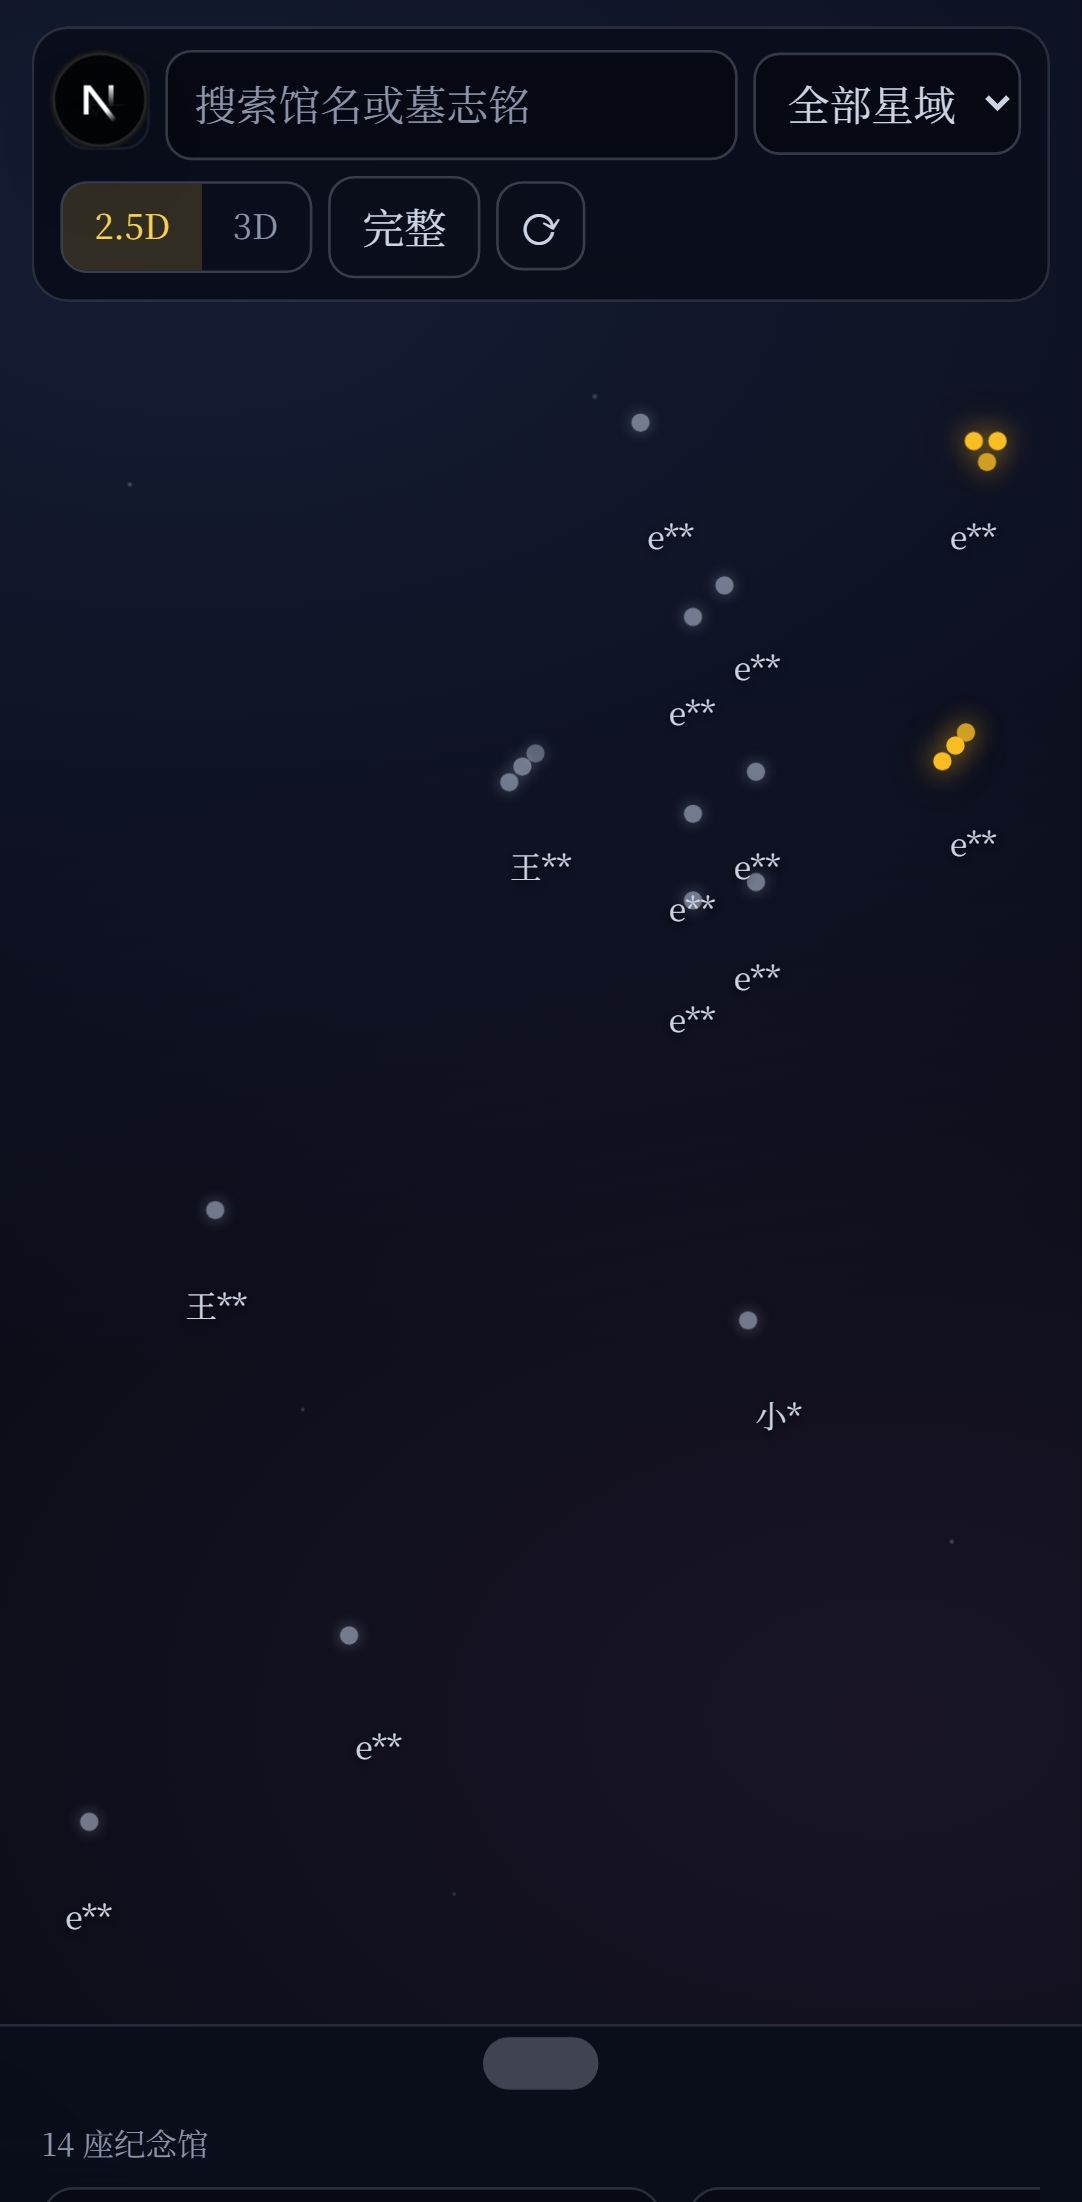
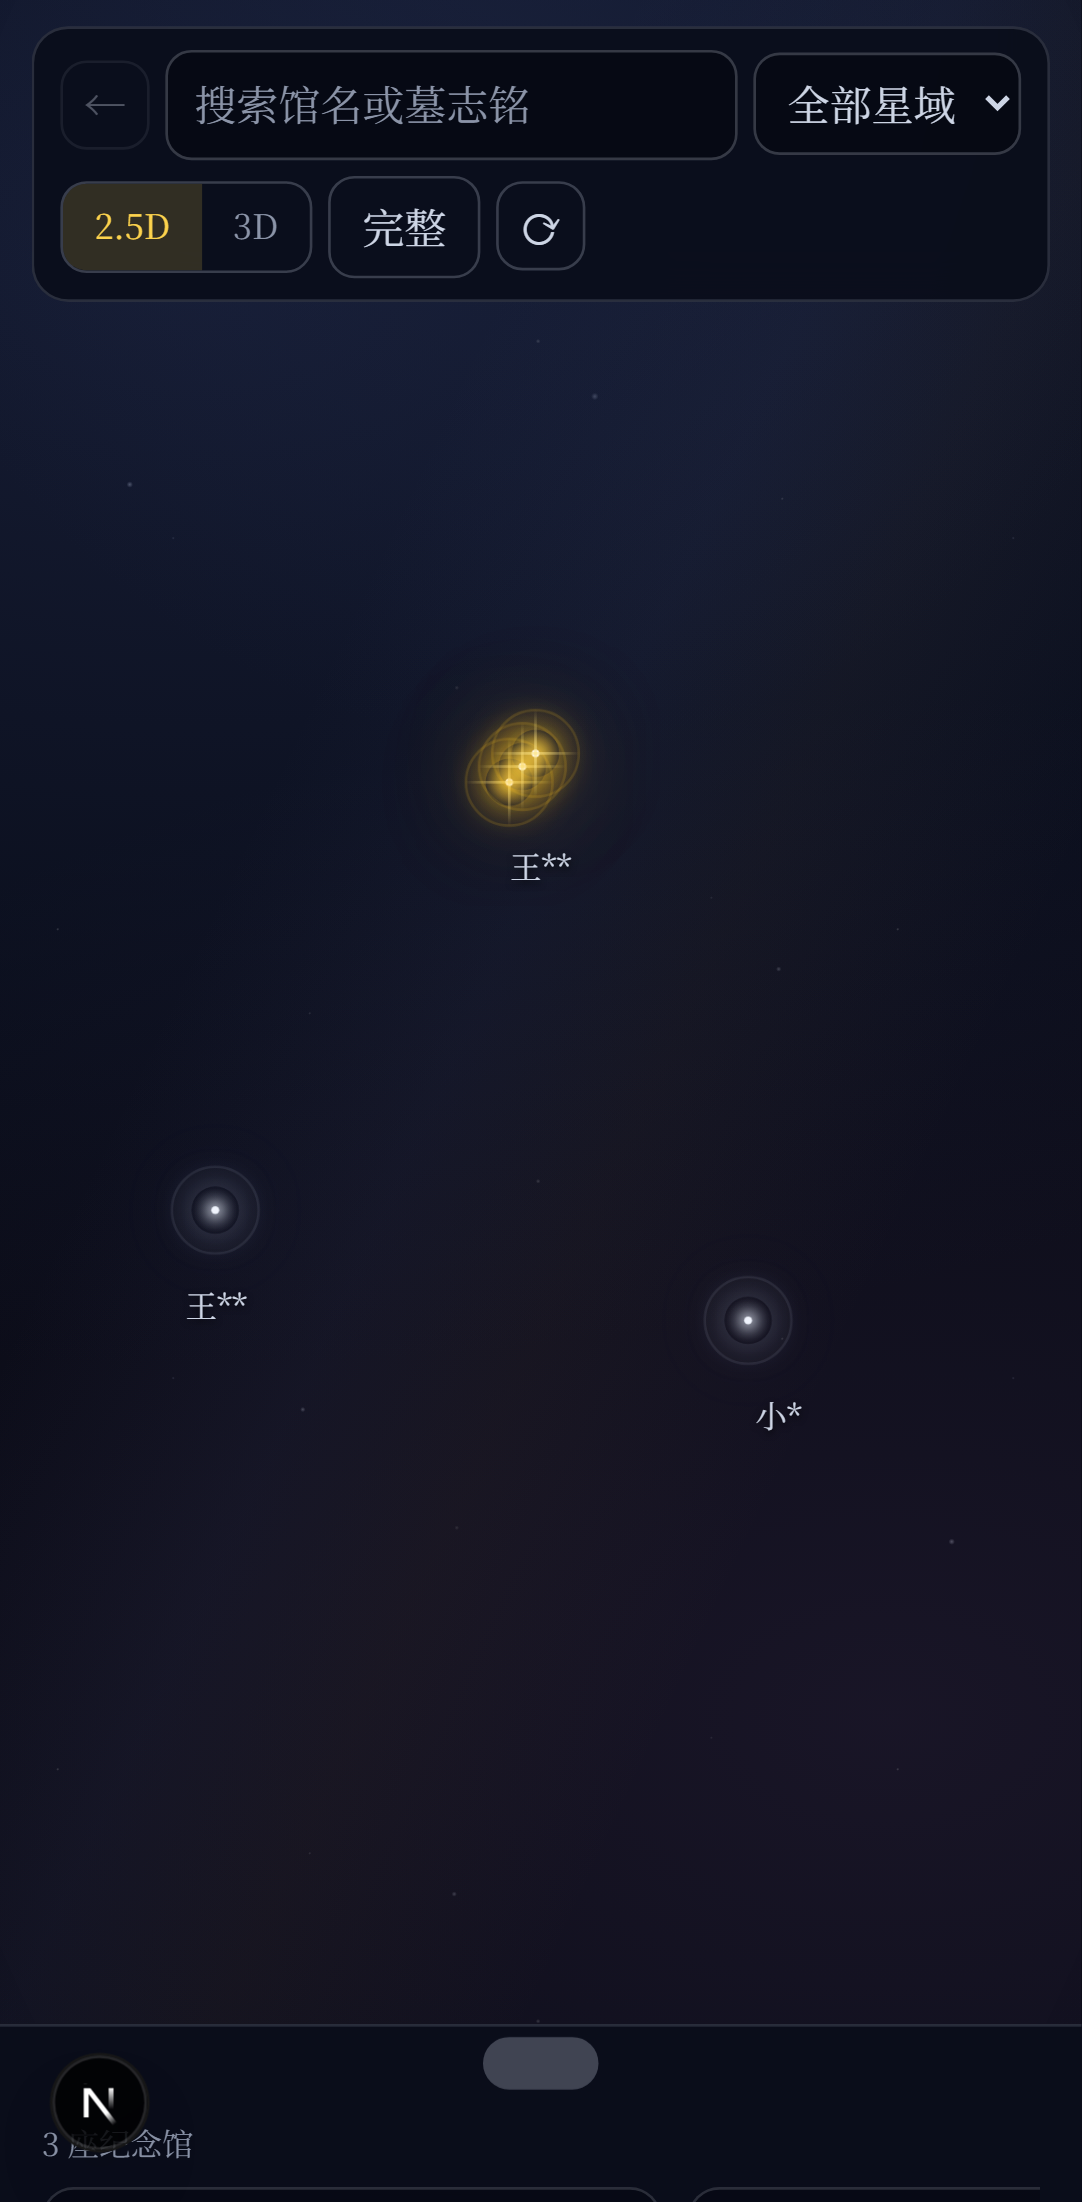
feat: 星海星光升级（D档：白核大光晕+十字光芒+星尘环+环境星空）

diff --git a/src/app/globals.css b/src/app/globals.css
@@ -403,6 +403,8 @@ footer[role="contentinfo"] { padding-bottom: env(safe-area-inset-bottom); }
   inset: 0;
   overflow: hidden;
   background:
+    radial-gradient(130% 80% at 50% -10%, rgba(38, 50, 88, 0.38), transparent 55%),
+    linear-gradient(115deg, transparent 30%, rgba(96, 104, 150, 0.07) 45%, rgba(150, 122, 88, 0.05) 55%, transparent 70%),
     radial-gradient(1200px 700px at 18% 12%, rgba(37, 47, 84, 0.5), transparent 60%),
     radial-gradient(900px 600px at 82% 78%, rgba(51, 38, 66, 0.42), transparent 65%),
     radial-gradient(1.2px 1.2px at 12% 22%, rgba(205, 213, 229, 0.5), transparent),
@@ -415,6 +417,38 @@ footer[role="contentinfo"] { padding-bottom: env(safe-area-inset-bottom); }
   color: var(--st-ink);
   touch-action: none; /* 平移/捏合由场景接管 */
   cursor: grab;
+}
+/* 环境氛围（D 档）：远景微星点阵（多层非同步长平铺出非周期感）+ 四角暗角。
+   均为纯装饰层：pointer-events none，z-index 0（低于 z-20 控制条 / z-30 抽屉）。
+   微星呼吸 9s；静态档/reduced-motion 关闭（见动效档位块）。 */
+.garden-sea::before {
+  content: "";
+  position: absolute;
+  inset: 0;
+  z-index: 0;
+  pointer-events: none;
+  background-image:
+    radial-gradient(1px 1px at 22px 34px, rgba(255, 255, 255, 0.3), transparent 60%),
+    radial-gradient(1px 1px at 118px 66px, rgba(255, 255, 255, 0.2), transparent 60%),
+    radial-gradient(1.5px 1.5px at 205px 130px, rgba(255, 255, 255, 0.26), transparent 60%),
+    radial-gradient(1px 1px at 271px 22px, rgba(255, 255, 255, 0.16), transparent 60%),
+    radial-gradient(1px 1px at 66px 205px, rgba(205, 216, 245, 0.22), transparent 60%),
+    radial-gradient(1.5px 1.5px at 174px 262px, rgba(255, 255, 255, 0.18), transparent 60%),
+    radial-gradient(1px 1px at 298px 190px, rgba(255, 255, 255, 0.24), transparent 60%);
+  background-size: 320px 320px;
+  animation: starsea-sky-breathe 9s ease-in-out infinite;
+}
+@keyframes starsea-sky-breathe {
+  0%, 100% { opacity: 0.55; }
+  50% { opacity: 0.9; }
+}
+.garden-sea::after {
+  content: "";
+  position: absolute;
+  inset: 0;
+  z-index: 0;
+  pointer-events: none;
+  background: radial-gradient(ellipse 120% 120% at 50% 45%, transparent 55%, rgba(2, 3, 8, 0.65) 100%);
 }
 .garden-sea:active { cursor: grabbing; }
 .garden-sea:focus-visible { outline: none; }
@@ -514,27 +548,86 @@ footer[role="contentinfo"] { padding-bottom: env(safe-area-inset-bottom); }
   border-radius: 10px;
 }
 .starsea-starfield { position: absolute; inset: 0; pointer-events: none; }
+/* 星点（D 档·择定 2026-09-02）：本体 = 光晕盘（径向渐变 + 多层辉光），
+   ::before = 高亮白核，::after = 极淡星尘环，子元素 .sd-glint = 十字光芒
+   （仅 24h 明灭暖星与聚焦态显现）。呼吸动画只动 transform/filter（合成器友好），
+   相位由组件内联 animationDelay 确定性推导；简化档放慢、静态档/reduced-motion 关闭。 */
 .starsea-dot {
   position: absolute;
-  width: 7px;
-  height: 7px;
+  width: 18px;
+  height: 18px;
   transform: translate(-50%, -50%);
   border-radius: 50%;
-  background: var(--st-star-cold);
-  box-shadow: 0 0 6px rgba(197, 208, 229, 0.35);
-  transition: background var(--st-micro) ease, box-shadow var(--st-micro) ease;
-  /* 星光微闪烁（完整档默认；相位由组件内联 animationDelay 确定性推导）。
-     简化档放慢、静态档/系统 reduced-motion 由下方规则关闭。 */
-  animation: starsea-twinkle 2.8s ease-in-out infinite;
+  background: radial-gradient(circle, rgba(197, 208, 229, 0.34) 0%, transparent 72%);
+  box-shadow: 0 0 14px rgba(197, 208, 229, 0.34), 0 0 34px rgba(197, 208, 229, 0.16);
+  animation: starsea-twinkle 5s ease-in-out infinite;
+}
+.starsea-dot::before {
+  content: "";
+  position: absolute;
+  left: 50%;
+  top: 50%;
+  width: 3px;
+  height: 3px;
+  transform: translate(-50%, -50%);
+  border-radius: 50%;
+  background: #f0f4fd;
+  box-shadow: 0 0 5px 1px rgba(240, 244, 253, 0.95);
+}
+.starsea-dot::after {
+  content: "";
+  position: absolute;
+  inset: -8px;
+  border-radius: 50%;
+  border: 1px solid rgba(197, 208, 229, 0.1);
+}
+.starsea-dot .sd-glint {
+  position: absolute;
+  left: 50%;
+  top: 50%;
+  width: 34px;
+  height: 1px;
+  background: linear-gradient(90deg, transparent, rgba(238, 242, 251, 0.8), transparent);
+  transform: translate(-50%, -50%);
+  opacity: 0;
+  transition: opacity 0.8s ease;
+  pointer-events: none;
+}
+.starsea-dot .sd-glint.v {
+  width: 1px;
+  height: 34px;
+  background: linear-gradient(180deg, transparent, rgba(238, 242, 251, 0.8), transparent);
 }
 @keyframes starsea-twinkle {
-  0%, 100% { opacity: 0.72; }
-  50% { opacity: 1; }
+  0%, 100% { transform: translate(-50%, -50%) scale(1); filter: brightness(1); }
+  50% { transform: translate(-50%, -50%) scale(1.1); filter: brightness(1.15); }
 }
-/* 明灭语义：24h 内有祭扫 = 暖橙高亮；否则低亮冷白（无热度文案/排序） */
+@keyframes starsea-glint {
+  0%, 100% { transform: translate(-50%, -50%) scaleX(0.82); }
+  50% { transform: translate(-50%, -50%) scaleX(1.12); }
+}
+@keyframes starsea-glint-v {
+  0%, 100% { transform: translate(-50%, -50%) scaleY(0.82); }
+  50% { transform: translate(-50%, -50%) scaleY(1.12); }
+}
+/* 明灭语义：24h 内有祭扫 = 暖橙高亮（大光晕 + 金色十字光芒）；否则低亮冷白（无热度文案/排序） */
 .starsea-cluster.is-lit .starsea-dot {
-  background: var(--st-star-warm);
-  box-shadow: 0 0 10px rgba(251, 191, 36, 0.75), 0 0 22px rgba(251, 191, 36, 0.3);
+  background: radial-gradient(circle, rgba(251, 191, 36, 0.5) 0%, transparent 72%);
+  box-shadow: 0 0 16px rgba(251, 191, 36, 0.75), 0 0 44px rgba(251, 191, 36, 0.34), 0 0 80px rgba(251, 191, 36, 0.14);
+}
+.starsea-cluster.is-lit .starsea-dot::before {
+  background: #fff8e2;
+  box-shadow: 0 0 7px 2.5px rgba(252, 211, 77, 1);
+}
+.starsea-cluster.is-lit .starsea-dot::after { border-color: rgba(251, 191, 36, 0.16); }
+.starsea-cluster.is-lit .sd-glint {
+  opacity: 0.7;
+  background: linear-gradient(90deg, transparent, rgba(253, 230, 138, 0.9), transparent);
+  animation: starsea-glint 5s ease-in-out infinite;
+}
+.starsea-cluster.is-lit .sd-glint.v {
+  background: linear-gradient(180deg, transparent, rgba(253, 230, 138, 0.9), transparent);
+  animation-name: starsea-glint-v;
 }
 /* 名人星域：只改一个亮度 token，不改位置/尺寸/排序 */
 .starsea-cluster.is-official .starsea-dot { filter: brightness(1.3); }
@@ -542,7 +635,8 @@ footer[role="contentinfo"] { padding-bottom: env(safe-area-inset-bottom); }
 .starsea-cluster.is-dimmed { opacity: 0.22; }
 /* 聚焦（400–700ms 可见状态） */
 .starsea-cluster.is-focused { transform: translate(-50%, -50%) scale(1.5); }
-.starsea-cluster.is-focused .starsea-dot { filter: brightness(1.8); }
+.starsea-cluster.is-focused .starsea-dot { filter: brightness(1.65); }
+.starsea-cluster.is-focused .sd-glint { opacity: 0.95; }
 .starsea-name {
   position: absolute;
   left: 50%;
@@ -559,19 +653,19 @@ footer[role="contentinfo"] { padding-bottom: env(safe-area-inset-bottom); }
 /* ---- 远景 LOD（Task 8，规格 §8.5：远处星群合并为光晕粒子，不渲染个体名牌） ---- */
 .starsea-halo {
   position: absolute;
-  width: 6px;
-  height: 6px;
+  width: 8px;
+  height: 8px;
   margin: 0;
   padding: 0;
   transform: translate(-50%, -50%);
   border-radius: 50%;
-  background: var(--st-star-cold);
-  box-shadow: 0 0 8px rgba(197, 208, 229, 0.35);
+  background: radial-gradient(circle, rgba(197, 208, 229, 0.42) 0%, transparent 70%);
+  box-shadow: 0 0 12px rgba(197, 208, 229, 0.4), 0 0 28px rgba(197, 208, 229, 0.18);
   pointer-events: none; /* 远景不交互：找馆走搜索 + 抽屉卡片流（§8.5 不变） */
 }
 .starsea-halo.is-lit {
-  background: var(--st-star-warm);
-  box-shadow: 0 0 12px rgba(251, 191, 36, 0.7), 0 0 24px rgba(251, 191, 36, 0.25);
+  background: radial-gradient(circle, rgba(251, 191, 36, 0.55) 0%, transparent 70%);
+  box-shadow: 0 0 16px rgba(251, 191, 36, 0.7), 0 0 38px rgba(251, 191, 36, 0.3), 0 0 64px rgba(251, 191, 36, 0.12);
 }
 .starsea-halo.is-dimmed { opacity: 0.22; }
 /* 远景聚合数量：视觉隐藏但留在无障碍树（同 .starsea-count 规则，不 display:none） */
@@ -593,12 +687,16 @@ footer[role="contentinfo"] { padding-bottom: env(safe-area-inset-bottom); }
 .starsea-motion-root { display: contents; }
 .starsea-motion-root[data-motion="simplified"] { --st-focus: 300ms; }
 .starsea-motion-root[data-motion="simplified"] .starsea-dot { animation-duration: 7s; }
+.starsea-motion-root[data-motion="simplified"] .starsea-cluster.is-lit .sd-glint { animation-duration: 7s; }
+.starsea-motion-root[data-motion="simplified"] .garden-sea::before { animation-duration: 16s; }
 .starsea-motion-root[data-motion="static"] {
   --st-micro: 80ms;
   --st-drawer: 100ms;
   --st-focus: 80ms;
 }
 .starsea-motion-root[data-motion="static"] .starsea-dot,
+.starsea-motion-root[data-motion="static"] .starsea-cluster.is-lit .sd-glint,
+.starsea-motion-root[data-motion="static"] .garden-sea::before,
 .starsea-motion-root[data-motion="static"] .garden-sea-skeleton,
 .starsea-motion-root[data-motion="static"] .starsea-loading,
 .starsea-motion-root[data-motion="static"] .starsea-halo { animation: none; }
@@ -990,7 +1088,16 @@ footer[role="contentinfo"] { padding-bottom: env(safe-area-inset-bottom); }
   /* 用户显式选择完整档 = 覆盖系统偏好：星光动画与常规时序恢复
      （选择器特异性 0-3-0 + !important > 上面 0-1-0 + !important） */
   .starsea-motion-root[data-motion="full"] .starsea-dot {
-    animation: starsea-twinkle 2.8s ease-in-out infinite !important;
+    animation: starsea-twinkle 5s ease-in-out infinite !important;
+  }
+  .starsea-motion-root[data-motion="full"] .starsea-cluster.is-lit .sd-glint {
+    animation: starsea-glint 5s ease-in-out infinite !important;
+  }
+  .starsea-motion-root[data-motion="full"] .starsea-cluster.is-lit .sd-glint.v {
+    animation-name: starsea-glint-v !important;
+  }
+  .starsea-motion-root[data-motion="full"] .garden-sea::before {
+    animation: starsea-sky-breathe 9s ease-in-out infinite !important;
   }
   .starsea-motion-root[data-motion="full"] .starsea-cluster {
     transition: opacity var(--st-micro) ease, filter var(--st-focus) ease, transform var(--st-focus) ease !important;

diff --git a/src/components/starsea/StarCluster.tsx b/src/components/starsea/StarCluster.tsx
@@ -88,17 +88,24 @@ const StarCluster = memo(function StarCluster({
       }}
     >
       <span className="starsea-starfield" aria-hidden="true">
-        {offsets.map((point, index) => (
-          <span
-            key={index}
-            className="starsea-dot"
-            style={{
-              left: `calc(50% + ${(point.x * STAR_SPREAD_PX).toFixed(1)}px)`,
-              top: `calc(50% + ${(point.y * STAR_SPREAD_PX).toFixed(1)}px)`,
-              animationDelay: `${(((index * 0.73 + hall.hallId.length * 0.11) % 2.8)).toFixed(2)}s`,
-            }}
-          />
-        ))}
+        {offsets.map((point, index) => {
+          const delay = `${(((index * 0.73 + hall.hallId.length * 0.11) % 5)).toFixed(2)}s`;
+          return (
+            <span
+              key={index}
+              className="starsea-dot"
+              style={{
+                left: `calc(50% + ${(point.x * STAR_SPREAD_PX).toFixed(1)}px)`,
+                top: `calc(50% + ${(point.y * STAR_SPREAD_PX).toFixed(1)}px)`,
+                animationDelay: delay,
+              }}
+            >
+              {/* 十字光芒（D 档 2026-09-02）：纯装饰，仅暖星/聚焦态由 CSS 显现；相位与星体同源 */}
+              <i className="sd-glint h" style={{ animationDelay: delay }} />
+              <i className="sd-glint v" style={{ animationDelay: delay }} />
+            </span>
+          );
+        })}
       </span>
       <span className="starsea-name">{hall.nameMasked}</span>
     </button>

diff --git a/src/components/starsea/StarSea3D.tsx b/src/components/starsea/StarSea3D.tsx
@@ -617,9 +617,10 @@ export default function StarSea3D({
     stack.camera.far = d.dist + 2400; // 覆盖星穹半径（880–1100）
     stack.camera.updateProjectionMatrix();
     // 星点世界尺寸：three 的 sizeAttenuation 是 gl_PointSize = size × (vh/2) / dist
-    // （注意分母没有 tan(fov/2) 因子），因此要与 2.5D 的 7px .starsea-dot 同观感，
-    // 需 size = 7px × dist×2/vh ÷ tanHalf = 7 × worldH / (tanHalf × scale × vh)
-    stack.lampMat.size = (7 * d.worldH) / (TAN_HALF_FOV * cam.scale * h);
+    // （注意分母没有 tan(fov/2) 因子），因此要与 2.5D 的 D 档星光观感对齐
+    // （2026-09-02：光晕盘外径约 18px、白核 3px，点精灵等效取 9px），
+    // 需 size = 9px × dist×2/vh ÷ tanHalf = 9 × worldH / (tanHalf × scale × vh)
+    stack.lampMat.size = (9 * d.worldH) / (TAN_HALF_FOV * cam.scale * h);
   };
 
   // ---- 数据 → 重建星点缓冲 + 单帧 ----
